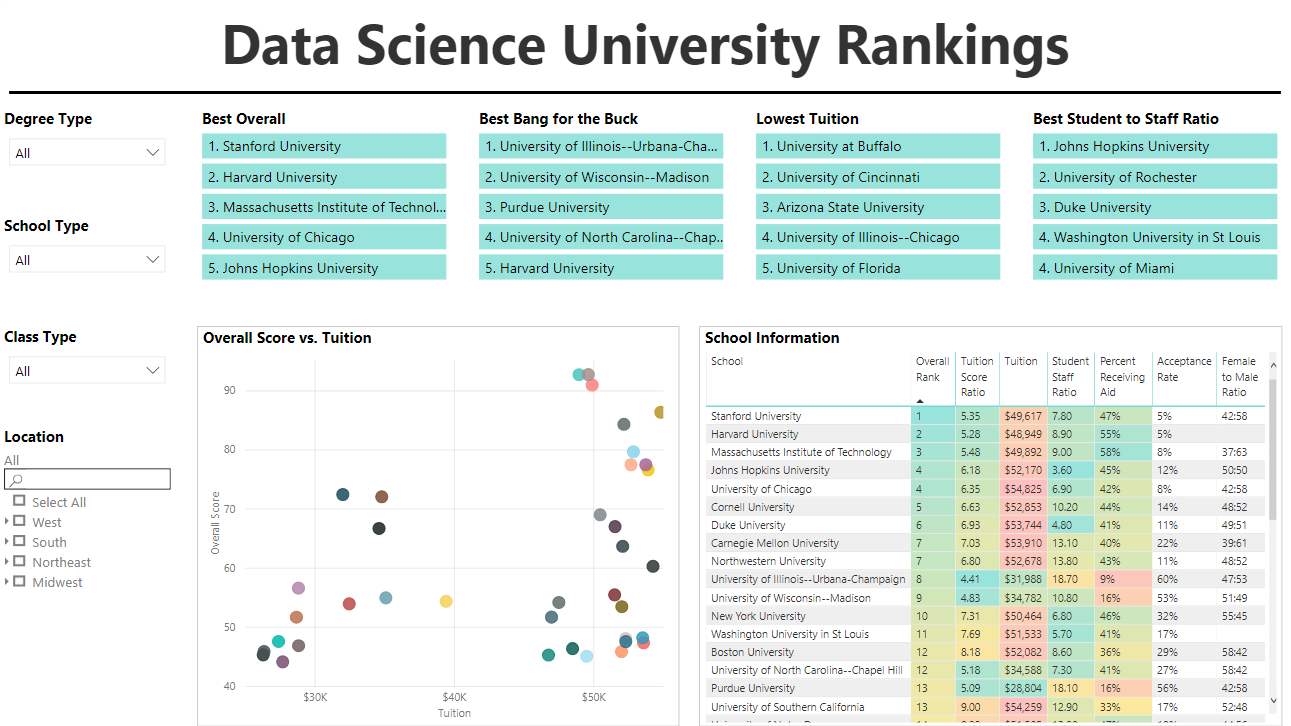
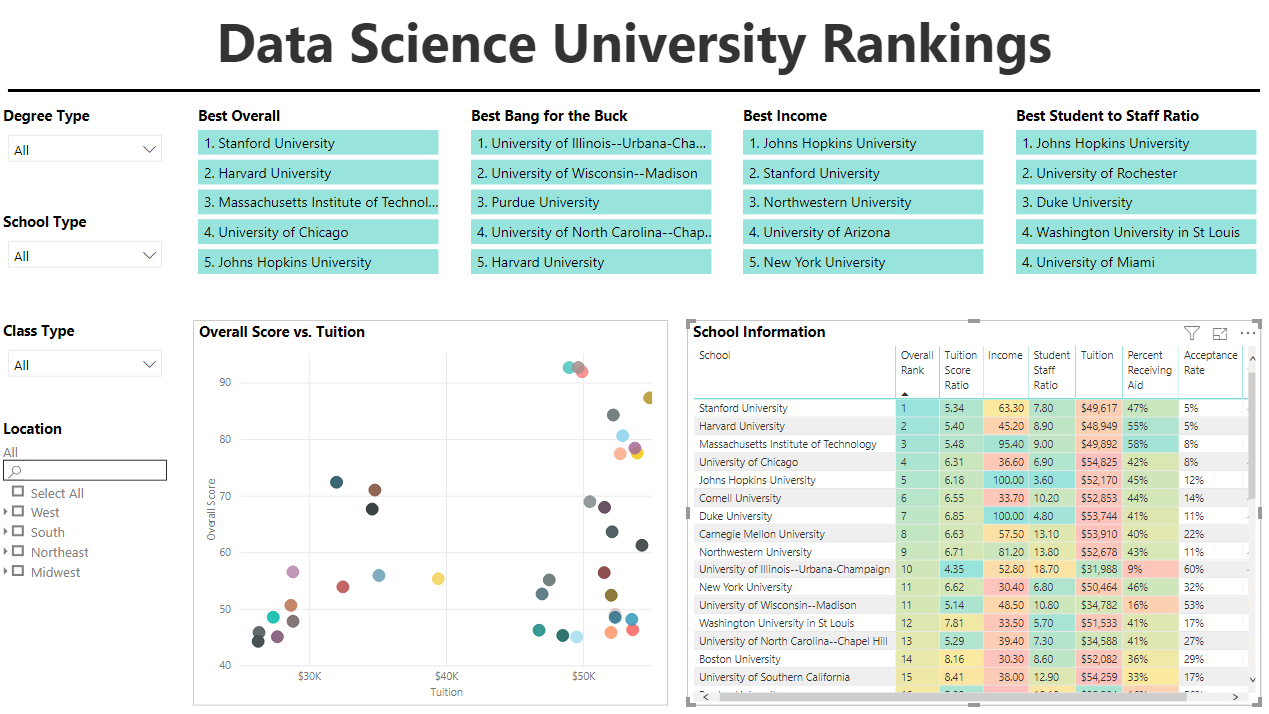
updated university rankings

diff --git a/university-rankings.html b/university-rankings.html
@@ -76,7 +76,7 @@
     <!-- Page Features -->
     	<div class="jumbotron">
         	<h1>Project Description</h1>
-            <p>Someone asked which schools are the best for data science. The "best" schools can be determined on many different factors. I covered a lot of the common factors, however, there are more such as income after graduation, graduation rate, etc.</p>
+            <p>Someone asked which schools are the best for data science. The "best" schools can be determined on many different factors, such as price, student to staff ratio, income after graduation, etc.</p>
             <h1>Datasets</h1>
             <p>Data was pulled in from three different sources on Kaggle.</p>
             <ul>
